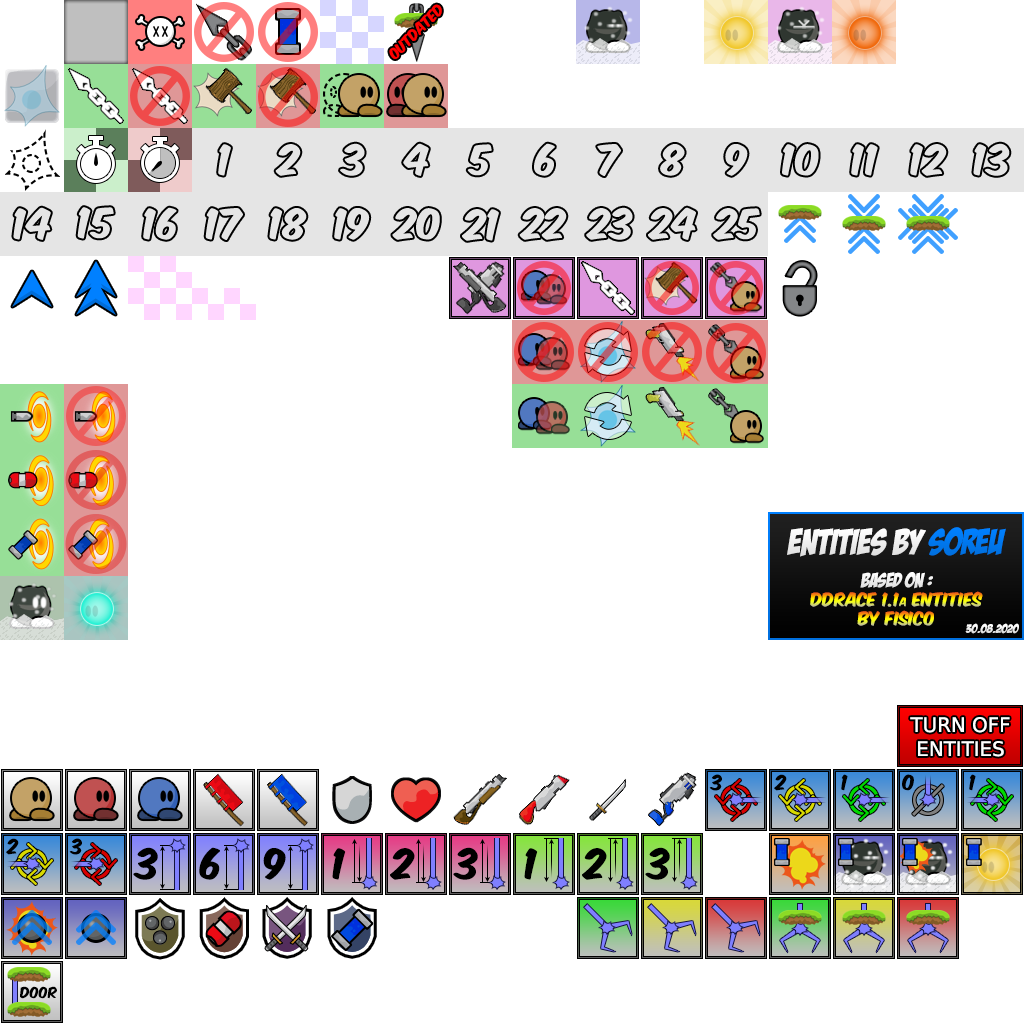
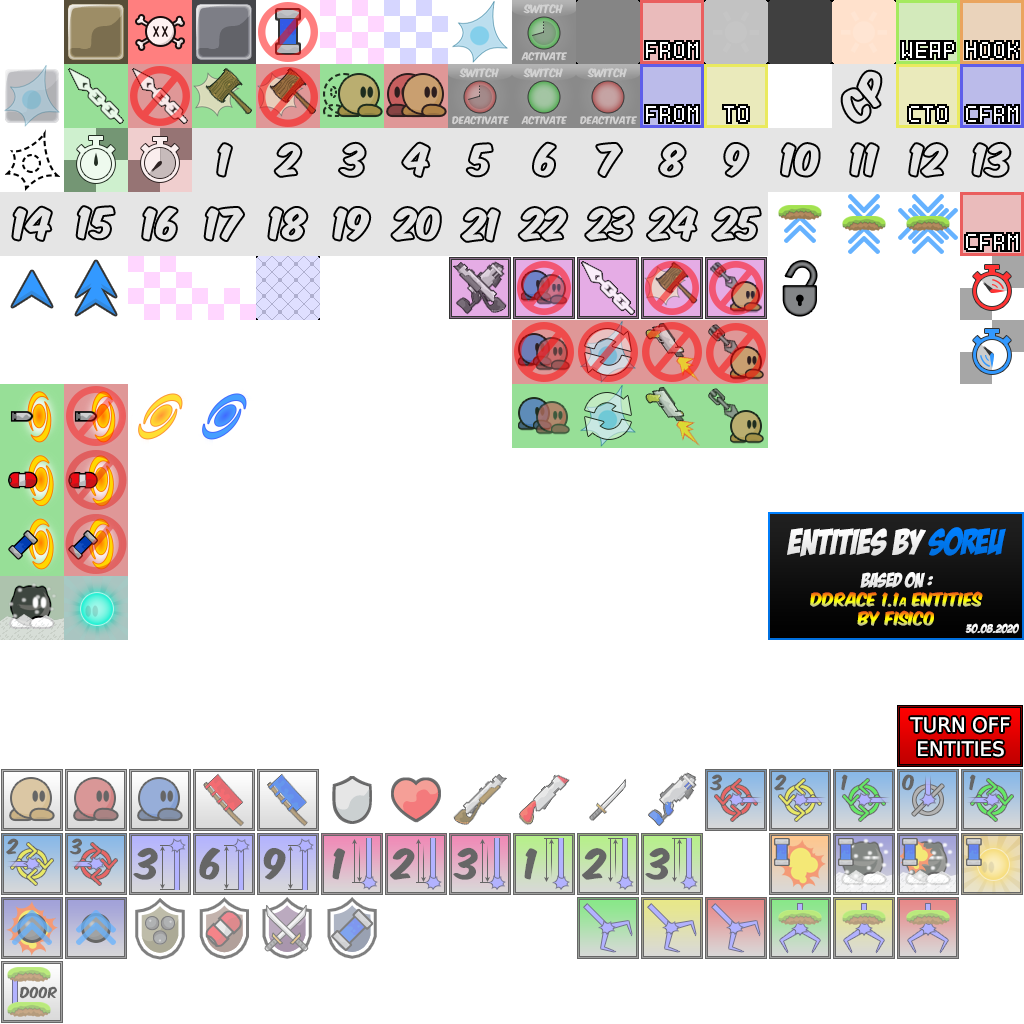
fix(map-viewer): match the client's entities-overlay look
Two fidelity fixes for the entities slider:
- Backdrop: instead of dimming to the near-black viewer background (which read
  as "too dark"), fade the clear colour toward DDNet's grey entities background
  (cl_background_entities_color) as the overlay fades in, mirroring the client's
  transition.
- Tileset: ship the client's editor/entities_clear/ddnet.png (what DDNet renders
  for the overlay) in place of the decorated editor entities image.

diff --git a/resources/assets/js/map/viewer.ts b/resources/assets/js/map/viewer.ts
@@ -267,7 +267,12 @@ export class MapViewer {
             }
         }
 
-        this.renderer.clear();
+        // Match the client's transition: as the entities overlay fades in, fade the backdrop
+        // from the dark viewer background toward the grey "entities background"
+        // (DDNet cl_background_entities_color, default ~0.5 grey) instead of dimming to black.
+        const t = this.entitiesOpacity;
+        const lerp = (a: number, b: number): number => a + (b - a) * t;
+        this.renderer.clear([lerp(0.07, 0.5), lerp(0.07, 0.5), lerp(0.09, 0.5)]);
 
         for (let gi = 0; gi < this.scene.groups.length; gi++) {
             const group = this.scene.groups[gi]!;

diff --git a/resources/assets/js/map/glRenderer.ts b/resources/assets/js/map/glRenderer.ts
@@ -146,9 +146,9 @@ export class GlRenderer {
         this.gl.viewport(0, 0, width, height);
     }
 
-    /** Clear to a dark background. */
-    clear(): void {
-        this.gl.clearColor(0.07, 0.07, 0.09, 1.0);
+    /** Clear the framebuffer to `color` (default: the dark viewer background). */
+    clear(color: [number, number, number] = [0.07, 0.07, 0.09]): void {
+        this.gl.clearColor(color[0], color[1], color[2], 1.0);
         this.gl.clear(this.gl.COLOR_BUFFER_BIT);
     }
 
